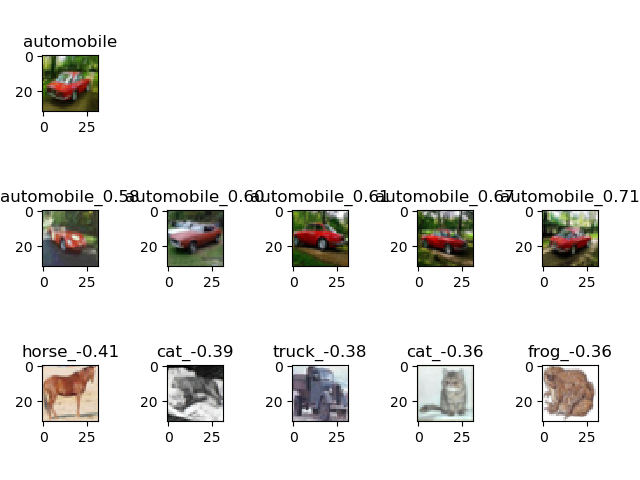
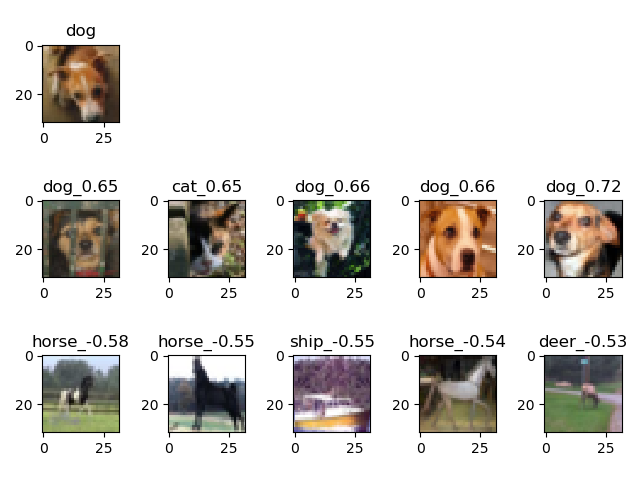
update visualization

diff --git a/test_k_means.py b/test_k_means.py
@@ -1,0 +1,166 @@
+from scipy.stats import ortho_group
+import pickle
+import numpy as np
+from torchvision import datasets
+from utils import get_transform
+import matplotlib.pyplot as plt
+
+
+def random_int(n=100, m=1):
+    if m == 1:
+        return np.random.randint(0, n, 1)[0]
+    else:
+        return list(np.random.randint(0, n, m))
+
+
+def l2_norm(l):
+    all_l = np.sqrt((l * l).sum()) + 1e-10
+    return l / all_l
+
+
+def dis(a, b):
+    return 1 - (a * b).sum()
+
+
+# print(l2_norm(np.array([0.6, 0.8])))
+
+# print(features.shape)
+# random select N orthogonal
+N = 2000
+for N in [250, 500]:
+    for iter in range(0, 5):
+        with open('./feature.pkl', 'rb') as f:
+            features = pickle.load(f)
+            labels = pickle.load(f)
+        features = np.stack(features)
+        C = 128
+        # idxs = random_int(C, N)
+        import math
+
+        dzg = ortho_group.rvs(dim=C)[:N]
+        if N <= C:
+            central_vector = ortho_group.rvs(dim=C)[:N]
+        else:
+            central_vector = np.random.rand(N, C)
+        # t = (central_vector[0] + central_vector[1]) / math.sqrt(2)
+        # print(t @ central_vector[0])
+        # exit(0)
+        # normalize
+        for i in range(N):
+            central_vector[i] = l2_norm(central_vector[i])
+
+        iter_num = 0
+        while True:
+            distance = central_vector @ features.T  # (N,sample num)
+            selected_central = distance.argmax(0)
+            all_error = 0
+            for i in range(N):
+                nearest_idx = np.where(selected_central == i)[0]
+                nearest_features = features[nearest_idx]
+                # print(.shape)
+                if nearest_features.shape[0] == 0:
+                    print('random central')
+                    features_center = sum([features[np.random.randint(0, features.shape[0], 1)[0]] for i in range(1)])
+                    # features_center = sum([dzg[i] for i in l])
+                    new_central = l2_norm(features_center)
+                else:
+                    # print(nearest_features.shape)
+                    new_central = l2_norm(nearest_features.mean(axis=0))
+                all_error += dis(central_vector[i], new_central)
+                central_vector[i] = new_central
+            print(f'iter:{iter_num}, error:{all_error}')
+            # print((central_vector @ central_vector.T))
+            iter_num += 1
+            if all_error < 5e-4:
+                break
+
+        distance = central_vector @ features.T
+        all_result = []
+        central = distance.argmax(0)
+        for i in range(N):
+            nearest_idxs = np.where(central == i)[0]
+            nearest_features = features[nearest_idxs]
+            if nearest_features.shape[0] == 0:
+                print('bug')
+            else:
+                central_vector_i = central_vector[[i]]
+                nearest_idx = (central_vector_i @ (nearest_features.T)).argmax(1)[0]
+                nearest_idx = nearest_idxs[nearest_idx]
+                all_result.append(nearest_idx)
+        print(len(set(all_result)))
+        import torch
+        import os
+
+        root = f'~/dataset/cifar_{N}_{iter}.pkl'
+        if isinstance(root, torch._six.string_classes):
+            root = os.path.expanduser(root)
+        with open(root, 'wb') as f:
+            pickle.dump(all_result, f)
+
+        from collections import defaultdict
+
+        ret = defaultdict(lambda: 0)
+        label_list = ['airplane', 'automobile', 'bird', 'cat', 'deer', 'dog', 'frog', 'horse', 'ship', 'truck']
+        image_size = 32
+        mean = [0.485, 0.456, 0.406]
+        std = [0.229, 0.224, 0.225]
+        test_transform = get_transform(image_size, mode='test', to_tensor=False)
+        dataset = datasets.cifar.CIFAR10(root='./', train=True, transform=test_transform,
+                                         download=True)
+        for x in all_result:
+            label = label_list[dataset[x][1]]
+            ret[label] += 1
+        print(ret)
+# all_result = distance.argmax(1)
+# from collections import defaultdict
+#
+# ret = defaultdict(lambda: 0)
+#
+# print(all_result)
+# with open('./cifar@250_random_1.pkl', 'wb') as f:
+#     pickle.dump(all_result, f)
+#     # pickle.dump(labels, f)
+#
+# # print(all_result)
+# # # selected_img = (-distance).argsort(axis=1)  # large to small
+# # # print(selected_img.shape)
+# # #
+# label_list = ['airplane', 'automobile', 'bird', 'cat', 'deer', 'dog', 'frog', 'horse', 'ship', 'truck']
+# image_size = 32
+# mean = [0.485, 0.456, 0.406]
+# std = [0.229, 0.224, 0.225]
+# test_transform = get_transform(image_size, mode='test', to_tensor=False)
+# dataset = datasets.cifar.CIFAR10(root='./', train=True, transform=test_transform,
+#                                  download=True)
+# for x in all_result:
+#     label = label_list[dataset[x][1]]
+#     ret[label] += 1
+# print(ret)
+# result = np.array(all_result[:50]).reshape(10, 5)
+# f = plt.figure(figsize=(10, 20))
+# for i in range(10):
+#     for j in range(5):
+#         idx = result[i][j]
+#         img, l = dataset[idx]
+#         label = label_list[l]
+#         f.add_subplot(10, 5, i * 5 + j + 1)
+#         plt.imshow(img)
+#         plt.title(f'{label}')
+# plt.show()
+
+
+# sm_sim = sim_with_label[:col_num]
+# M = 5
+# f = plt.figure(figsize=(10, 20))
+# for i in range(N):
+#     for j in range(M):
+#         # score, idx = sm_sim[i]
+#         idx = selected_img[i][j]
+#         img, l = dataset[idx]
+#         label = label_list[l]
+#         f.add_subplot(N, M, i * M + j + 1)
+#         plt.imshow(img)
+#         plt.title(f'{label}_{distance[i][idx]:.1f}')
+# plt.show()
+# a = np.array([1, 2, 3, 1, 5, 4, 3])
+# print(np.where(a == 1))
